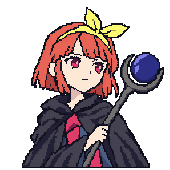
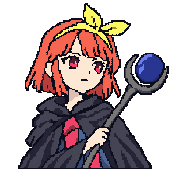
feat: 워드 대화 초상화를 170x170 격자로 재생성
128칸 격자 원본을 170칸으로 늘려 외곽선 두께가 고르지 않고 희미했다.
Codex image_gen 으로 170x170 격자에 맞춰 다시 그리고 pixelate.py
--keep-lines 2 로 변환했다. 나머지 초상화 7장의 프레이밍 기준으로 쓴다.

Changed region(s): [[0.0882, 0.0, 1.0, 1.0], [0.4706, 0.4118, 0.5588, 0.5]]

diff --git a/background-generation.md b/background-generation.md
@@ -40,3 +40,9 @@ Use case: style-transfer / illustration-story. Edit target image 1: peaceful mou
 ### MountainValley
 
 Use case: illustration-story. Asset: WordVenture title screen background, 16:9 landscape. Input images STYLE references only. Match the simple coarse pixel art of game battle background: blue layered mountain silhouettes, flat teal forest, bright green grasses, ochre paths, limited flat color clusters, large square pixels. Scene: inviting remote mountain valley and winding ochre trail leading toward distant blue mountains, framing trees at far left and right, low bushes. Keep central 60 percent open and uncluttered for existing title and vertical menu overlay; airy blue sky upper half. No cottage in center, no characters, no text or letters, no logo/UI, no high detail dithering, no gradients or painterly texture. Approximately 320x180 logical pixel grid enlarged crisp, side-on scenic 2D RPG backdrop. Use same palette and visual density as reference 1.
+
+### WordDialogue
+
+Assets/Art/Story/Portraits/WordDialogue.png: 워드 대화 초상화. 참고 이미지로 AI 원본(b7c2ed0), 현재 170x170 PNG의 4배 확대본, 전투 스프라이트 WordIdle1.png의 4배 확대본을 첨부. 생성 원본 1254x1254를 `pixelate.py --target 170x170 --keep-lines 2`로 변환.
+
+Redraw the attached reference image as true pixel art for the game WordVenture. Dialogue portrait of Word, a young red-haired mage girl with a yellow ribbon, black cloak, red scarf and a staff with a blue orb, bust shot. Keep the same composition, character design, pose and colours as the reference. Draw it on an exact 170x170 pixel grid: every art pixel is one equal square cell, then enlarge with nearest-neighbour by an integer factor. Hard edges, no anti-aliasing, no gradients, no dithering noise, no blur, flat colour clusters, limited palette of about 32 colours, clean 1-pixel dark outline. Transparent background. No text, UI or logos. Match the palette and density of the other attached game art.

diff --git a/.agents/skills/pixel-art/regen-candidates.md b/.agents/skills/pixel-art/regen-candidates.md
@@ -20,7 +20,6 @@ python3 .agents/skills/pixel-art/scripts/pixelate.py <codex 출력>.png <대상>
 
 | 에셋 | 비고 |
 |---|---|
-| `Assets/Art/Story/Portraits/WordDialogue.png` | 우선순위 1. 외곽선이 희미하다는 피드백. 임시로 `--keep-lines 2` 적용됨 |
 | `Assets/Art/Story/Portraits/FishermanDialogue.png` | |
 | `Assets/Art/Story/Portraits/GuardDialogue.png` | |
 | `Assets/Art/Story/Portraits/GuideDialogue.png` | |
@@ -51,3 +50,4 @@ python3 .agents/skills/pixel-art/scripts/pixelate.py <codex 출력>.png <대상>
 ## 처리 완료
 
 - 워드 전투 스프라이트 7프레임(`Assets/Art/Combat/Word/`): `--keep-lines 2`로 다시 변환해 외곽선이 닫힘
+- 워드 대화 초상화(`Assets/Art/Story/Portraits/WordDialogue.png`): Codex image_gen으로 재생성해 `--target 170x170 --keep-lines 2`로 변환. 나머지 초상화 7장의 머리 크기와 프레이밍 기준
